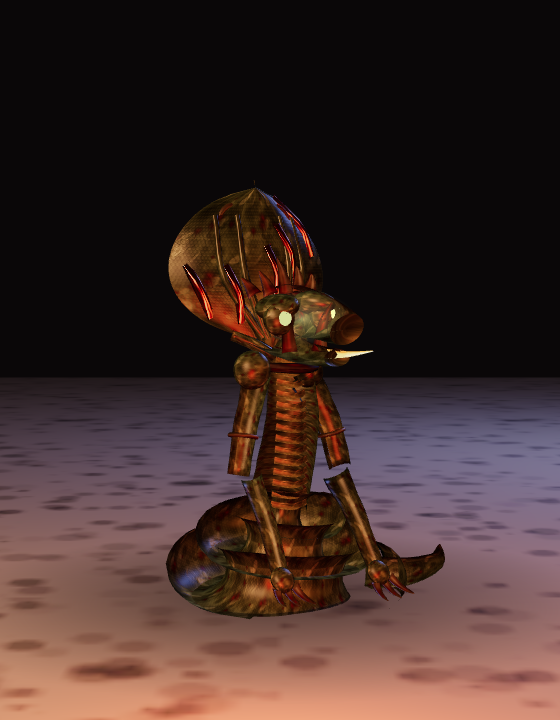
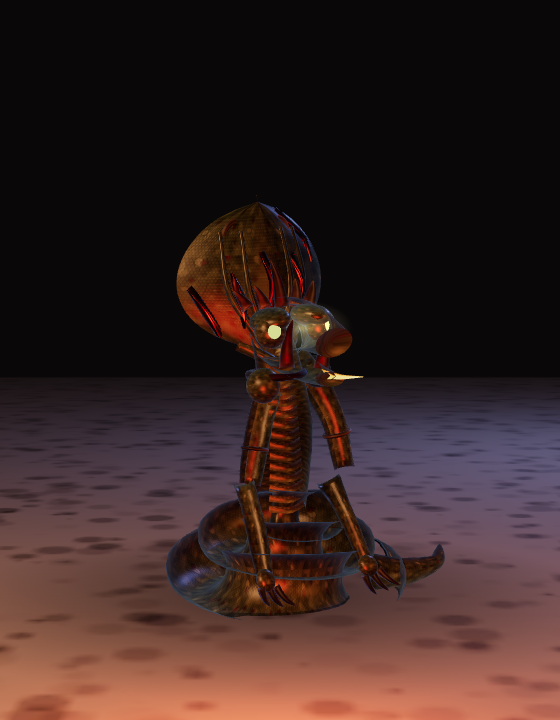
Fix review findings: dead fresnel rim, sculpt races, capture determinism
Self-review of #9 turned up nine issues, one of which killed a headline
feature outright.

- The fresnel rim never rendered. Material.clone() carries neither
  onBeforeCompile nor customProgramCacheKey, and every monster renders from
  per-instance clones, so the patch was dropped on all of them. Verified
  against the vendored three build. The rim setting now lives in userData
  (which clone does preserve) and applyRim() reinstalls the patch after
  cloning. Its strength drops from 0.55 to 0.32 - the old value was tuned
  blind against an effect that was doing nothing.
- The rim was spliced in at <dithering_fragment>, past tonemapping, colour
  space and fog. Once it actually rendered it would have outlined distant
  enemies straight through the fog. Now injected after <opaque_fragment> so it
  is tone-mapped and fogged like everything else.
- Captures were not reproducible: the preview tool took a random variant, tone
  and stature per shot, so an idle/attack pair could show two different
  creatures and re-running capture.mjs churned the images. An explicit variant
  now seeds the per-instance jitter too, and the tool always pins one.
- SkeletonUtils was imported fire-and-forget, so a sculpt instanced before it
  resolved fell back to a shallow clone and every copy shared one skeleton -
  the exact bug the adjacent comment warned about. It is now awaited as part
  of the preload, and instancing without it fails loudly instead.
[…]

Changed region(s): [[0.0, 0.2444, 1.0, 1.0]]

diff --git a/src/models3d.js b/src/models3d.js
@@ -261,6 +261,15 @@ function bakeCavityAO(geo, amp) {
   const n = pos.count;
   const detail = geo.userData.detail;
   const col = new Float32Array(n * 3);
+  // Undisplaced surfaces (metal, teeth, eyes) have no cavities to bake and
+  // should not be darkened; they still need the attribute because the
+  // materials all declare vertexColors.
+  if (amp === 0) {
+    col.fill(1);
+    geo.setAttribute('color', new THREE.BufferAttribute(col, 3));
+    delete geo.userData.detail;
+    return geo;
+  }
   for (let i = 0; i < n; i++) {
     const d = detail ? detail[i] : 0;
     // Pits (negative displacement) darken hard; bumps brighten slightly.
@@ -274,7 +283,6 @@ function bakeCavityAO(geo, amp) {
   }
   geo.setAttribute('color', new THREE.BufferAttribute(col, 3));
   delete geo.userData.detail;
-  if (amp === 0) return geo; // keep hard surfaces crisp
   return geo;
 }
 
@@ -757,7 +765,7 @@ function materialProtos(type) {
     // Wet blood: darker than the hide, and glossier than anything else on it.
     blood: rimLit(new THREE.MeshPhongMaterial({
       map: T.blood, bumpMap: T.blood, bumpScale: 0.7,
-      color: 0xa8302a, specular: 0x8a4038, shininess: 100,
+      color: 0x561512, specular: 0x4a231e, shininess: 86,
       vertexColors: true, transparent: true, opacity: 0.95, side: THREE.DoubleSide,
     })),
     eye: new THREE.MeshBasicMaterial({ color: 0xffffff }),
@@ -773,8 +781,17 @@ function materialProtos(type) {
 // creature's edge would otherwise dissolve into the fog; a cold rim separates
 // it from the background and reads as damp skin catching stray light.
 function rimLit(mat, rim) {
-  const color = new THREE.Color(rim || 0x5a6a86);
-  const strength = 0.55;
+  mat.userData.rim = rim || 0x5a6a86;
+  return applyRim(mat);
+}
+
+// Installs the rim patch on a material. Must be re-run after clone(): three's
+// Material.copy() carries neither onBeforeCompile nor customProgramCacheKey,
+// so a cloned material silently renders without the effect. The setting lives
+// in userData, which clone() does preserve.
+export function applyRim(mat) {
+  const color = new THREE.Color(mat.userData.rim);
+  const strength = 0.32;
   mat.onBeforeCompile = (shader) => {
     shader.uniforms.rimColor = { value: color };
     shader.uniforms.rimStrength = { value: strength };
@@ -782,10 +799,12 @@ function rimLit(mat, rim) {
       .replace('#include <common>', `#include <common>
         uniform vec3 rimColor;
         uniform float rimStrength;`)
-      .replace('#include <dithering_fragment>', `
+      // After <opaque_fragment> so the rim is still tone-mapped and, more
+      // importantly, still fogged - it must fade with distance like everything
+      // else or it draws an outline around monsters you should not yet see.
+      .replace('#include <opaque_fragment>', `#include <opaque_fragment>
         float rimF = 1.0 - abs(dot(normalize(vNormal), normalize(vViewPosition)));
-        gl_FragColor.rgb += rimColor * pow(rimF, 3.0) * rimStrength;
-        #include <dithering_fragment>`);
+        gl_FragColor.rgb += rimColor * pow(rimF, 3.0) * rimStrength;`);
   };
   // Materials with different shader patches must not share a program.
   mat.customProgramCacheKey = () => `rim${color.getHex()}`;
@@ -902,13 +921,17 @@ function buildAsura(seed = 1) {
   }
   // Horns: heavy ridged pair sweeping up and back over the shoulders
   for (const side of [-1, 1]) {
+    // Horns differ per variant and per side: length, sweep, and the odd
+    // stunted or broken one.
+    const hl = 0.72 + r() * 0.62;
+    const hs = 0.8 + r() * 0.5;
     head.put('horn', tube(
       [
         [side * 4, 7.5, 2],
-        [side * 7.5, 14, -2],
-        [side * 9, 20, -10],
-        [side * 7, 22, -19],
-        [side * 4.5, 20, -25],
+        [side * 7.5, 14, -2 * hs],
+        [side * 9, 12 + 8 * hl, -10 * hs],
+        [side * 7, 13 + 9 * hl, -19 * hs],
+        [side * 4.5, 12 + 8 * hl, -25 * hs],
       ],
       { segs: 22, radial: 14, radius: (t) => 3.1 * (1 - t) ** 0.55 + 0.15, capEnd: false, vScale: 3 },
     ));
@@ -1261,20 +1284,23 @@ function buildRakshasa(boss, seed = 1) {
   }
   // Horns: ram-curled for the rakshasa, a wide buffalo sweep for the boss
   for (const side of [-1, 1]) {
+    // Horn spread and curl vary per variant and per side
+    const hw = 0.82 + r() * 0.42;
+    const hc = 0.78 + r() * 0.5;
     const pts = boss
       ? [
         [side * 7, 8, -1],
-        [side * 18, 12, -3],
-        [side * 29, 13, -5],
-        [side * 37, 18, -2],
-        [side * 36, 27, 6],
+        [side * 18 * hw, 12, -3],
+        [side * 29 * hw, 13, -5 * hc],
+        [side * 37 * hw, 18, -2 * hc],
+        [side * 36 * hw, 20 + 9 * hc, 6 * hc],
       ]
       : [
         [side * 8, 7, -1],
-        [side * 16, 12, -4],
-        [side * 20, 10, -12],
-        [side * 15, 3, -16],
-        [side * 10, 0, -11],
+        [side * 16 * hw, 12, -4 * hc],
+        [side * 20 * hw, 10, -12 * hc],
+        [side * 15 * hw, 3, -16 * hc],
+        [side * 10 * hw, 0, -11 * hc],
       ];
     head.put('horn', tube(pts, {
       segs: 22,
@@ -1497,11 +1523,14 @@ const EYE_COLORS = {
  * @returns a handle with { root, height, pose(state), setHurt(t), setFade(a), dispose() }
  */
 export function createMonster(type, boss, height, variant) {
-  const v = variant === undefined ? (Math.random() * VARIANTS) | 0 : variant % VARIANTS;
+  const explicit = variant !== undefined;
+  const v = explicit ? variant % VARIANTS : (Math.random() * VARIANTS) | 0;
   const rig = rigFor(type, boss, v);
   const protos = materialProtos(type);
   const eyeColor = EYE_COLORS[boss ? 'boss' : type];
-  const rnd = rng(v * 977 + ((Math.random() * 1e6) | 0));
+  // An explicit variant means a reproducible monster, so the offline capture
+  // tool shoots the same creature every run.
+  const rnd = rng(explicit ? v * 977 + 13 : v * 977 + ((Math.random() * 1e6) | 0));
 
   // Per-instance materials so one monster can flash or fade alone. Each also
   // gets its own slight shift in tone and gloss, so a pack does not look like
@@ -1511,6 +1540,8 @@ export function createMonster(type, boss, height, variant) {
   const skinLike = [];
   for (const key of Object.keys(protos)) {
     const m = protos[key].clone();
+    // clone() drops the shader patch; put it back or the rim silently vanishes.
+    if (m.userData && m.userData.rim !== undefined) applyRim(m);
     if (key === 'eye') m.color.setHex(eyeColor);
     else if (key === 'ember') m.color.setHex(boss ? 0xff5a10 : type === 'naga' ? 0xc0ff40 : 0xff5a12);
     else {
@@ -1519,6 +1550,15 @@ export function createMonster(type, boss, height, variant) {
     }
     mats[key] = m;
     if (key !== 'eye' && key !== 'ember') skinLike.push(m);
+  }
+
+  // What each material wants when the monster is not fading, so setFade can
+  // put it back instead of forcing everything opaque.
+  const baseTransparent = {};
+  const baseOpacity = {};
+  for (const key of Object.keys(mats)) {
+    baseTransparent[key] = mats[key].transparent;
+    baseOpacity[key] = mats[key].opacity;
   }
 
   const root = new THREE.Group();
@@ -1620,12 +1660,17 @@ export function createMonster(type, boss, height, variant) {
       if (on !== transparent) {
         transparent = on;
         for (const key of Object.keys(mats)) {
-          mats[key].transparent = on;
-          mats[key].depthWrite = !on;
-          mats[key].needsUpdate = true;
+          const m = mats[key];
+          // Restore each material's own setting rather than forcing opaque:
+          // blood is authored transparent and must stay that way.
+          m.transparent = on || baseTransparent[key];
+          m.depthWrite = !m.transparent;
+          m.needsUpdate = true;
         }
       }
-      if (on) for (const key of Object.keys(mats)) mats[key].opacity = alpha;
+      for (const key of Object.keys(mats)) {
+        mats[key].opacity = on ? alpha : baseOpacity[key];
+      }
       glowMat.opacity = alpha;
     },
 

diff --git a/src/monsters.js b/src/monsters.js
@@ -15,10 +15,12 @@ import { createMonster as createProcedural } from './models3d.js';
 import { MONSTER_MODELS, HAS_SCULPTS } from './monsterAssets.js';
 
 const loaded = new Map();   // key -> { scene, clips, cfg }
+// Populated by preloadSculpts before any sculpt can be instanced.
+const skeletonUtils = {};
 let readyCallbacks = [];
 let loadStarted = false;
 
-const keyFor = (type, boss) => (boss && MONSTER_MODELS.boss ? 'boss' : type);
+const keyFor = (type, boss) => (boss && loaded.has('boss') ? 'boss' : type);
 
 /**
  * Kick off loading of any configured sculpts. Safe to call repeatedly, and a
@@ -34,6 +36,14 @@ export async function preloadSculpts() {
     ({ GLTFLoader } = await import('../lib/GLTFLoader.js'));
   } catch (err) {
     console.warn('[vidhi] GLTFLoader unavailable, staying procedural:', err.message);
+    return;
+  }
+  // Must be ready before any sculpt is instanced: a shallow clone would give
+  // every copy one shared skeleton, so they would all animate in lockstep.
+  try {
+    ({ clone: skeletonUtils.clone } = await import('../lib/SkeletonUtils.js'));
+  } catch (err) {
+    console.warn('[vidhi] SkeletonUtils unavailable; sculpts stay procedural:', err.message);
     return;
   }
   const loader = new GLTFLoader();
@@ -107,8 +117,9 @@ function createSculpted(entry, type, boss, height) {
   // Skinned meshes cannot be cloned with Object3D.clone - the copies would
   // share one skeleton and animate in lockstep.
   const { clone } = skeletonUtils;
+  if (!clone) throw new Error('SkeletonUtils not loaded');
   const root = new THREE.Group();
-  const model = clone ? clone(entry.scene) : entry.scene.clone(true);
+  const model = clone(entry.scene);
   const cfg = entry.cfg;
 
   // Fit to the gameplay height and stand it on the floor, so a sculpt authored
@@ -121,23 +132,14 @@ function createSculpted(entry, type, boss, height) {
   model.position.y = -box.min.y * fit + (cfg.offsetY || 0);
   model.rotation.y = cfg.yaw || 0;
 
-  const materials = [];
+  // One pass: shadow flags, culling, and per-instance material clones so this
+  // monster can flash red or fade out without dragging its species with it.
+  const clonedFor = new Map();
   model.traverse((o) => {
     if (!o.isMesh && !o.isSkinnedMesh) return;
     o.castShadow = true;
     o.receiveShadow = true;
     o.frustumCulled = false; // skinned bounds go stale as the pose changes
-    for (const m of Array.isArray(o.material) ? o.material : [o.material]) {
-      if (m && !materials.includes(m)) {
-        // Clone so this instance can flash and fade on its own.
-        materials.push(m);
-      }
-    }
-  });
-  // Re-assign per-instance material clones
-  const clonedFor = new Map();
-  model.traverse((o) => {
-    if (!o.isMesh && !o.isSkinnedMesh) return;
     const swap = (m) => {
       if (!m) return m;
       if (!clonedFor.has(m)) clonedFor.set(m, m.clone());
@@ -242,11 +244,3 @@ function createSculpted(entry, type, boss, height) {
   };
 }
 
-// SkeletonUtils is only needed once a sculpt is actually in play, so it is
-// imported lazily alongside the loader.
-const skeletonUtils = {};
-if (HAS_SCULPTS) {
-  import('../lib/SkeletonUtils.js')
-    .then((m) => { skeletonUtils.clone = m.clone; })
-    .catch(() => { /* falls back to a shallow clone, fine for static meshes */ });
-}

diff --git a/tools/preview.html b/tools/preview.html
@@ -22,21 +22,21 @@ import { createMonster } from '../src/models3d.js';
 const canvas = document.getElementById('c');
 const renderer = new THREE.WebGLRenderer({ canvas, antialias: true, alpha: false });
 renderer.toneMapping = THREE.ACESFilmicToneMapping;
-renderer.toneMappingExposure = 1.55;
+renderer.toneMappingExposure = 1.4;
 
 const scene = new THREE.Scene();
 const camera = new THREE.PerspectiveCamera(30, 1, 0.05, 60);
 
-scene.add(new THREE.AmbientLight(0x8496c4, 1.05));
-scene.add(new THREE.HemisphereLight(0x8a6a44, 0x1c1410, 1.9));
+scene.add(new THREE.AmbientLight(0x8496c4, 0.8));
+scene.add(new THREE.HemisphereLight(0x8a6a44, 0x1c1410, 1.45));
 
-const key = new THREE.PointLight(0xffc490, 62, 18, 2);
+const key = new THREE.PointLight(0xffc490, 46, 18, 2);
 key.position.set(-1.7, 1.9, 2.4);
 scene.add(key);
-const fill = new THREE.PointLight(0xff9a45, 24, 16, 2);
+const fill = new THREE.PointLight(0xff9a45, 17, 16, 2);
 fill.position.set(2.4, 0.9, 1.8);
 scene.add(fill);
-const rim = new THREE.PointLight(0x86a0ff, 42, 14, 2);
+const rim = new THREE.PointLight(0x86a0ff, 30, 14, 2);
 rim.position.set(1.7, 2.1, -2.6);
 scene.add(rim);
 const under = new THREE.PointLight(0xff5522, 11, 7, 2);
@@ -96,7 +96,10 @@ window.showMonster = (type, boss, height, opts = {}) => {
     scene.remove(current.root);
     current.dispose();
   }
-  current = createMonster(type, boss, height);
+  // Always pin the variant: in game a monster picks one at random along with
+  // its own tone and stature, which would make every capture run produce a
+  // different creature and the idle/attack pair show two different bodies.
+  current = createMonster(type, boss, height, opts.variant !== undefined ? opts.variant : 0);
   scene.add(current.root);
   shadow.scale.set(height * 1.5, 1, height * 1.5);
   scene.background = new THREE.Color(opts.bg !== undefined ? opts.bg : 0x0a0708);

diff --git a/src/renderer3d.js b/src/renderer3d.js
@@ -9,7 +9,7 @@ import {
 } from './constants.js';
 import { createTextures } from './textures.js';
 import { createSpriteFrames } from './sprites3d.js';
-import { createMonster, preloadSculpts, onSculptsReady } from './monsters.js';
+import { createMonster, preloadSculpts, onSculptsReady, hasSculpt } from './monsters.js';
 
 const TORCH_LIGHT_POOL = 6;
 const MAX_PARTICLES = 512;
@@ -439,10 +439,13 @@ export class Renderer3D {
         }
         continue;
       }
-      if (mesh && this._rebuildEnemies && ENEMY_TYPES.has(sprite.type)) {
-        // A sculpt finished loading: throw away the procedural stand-in.
+      if (mesh && this._rebuildEnemies && ENEMY_TYPES.has(sprite.type)
+          && !mesh.userData.model.sculpted && hasSculpt(sprite.type, sprite.boss)) {
+        // A sculpt landed for this species: retire the procedural stand-in.
+        // Anything without one keeps its mesh, so its facing and gait do not
+        // snap back to defaults for no reason.
         this.spriteGroup.remove(mesh);
-        if (mesh.userData.model) mesh.userData.model.dispose();
+        mesh.userData.model.dispose();
         this._spriteMeshes.delete(sprite);
         mesh = null;
       }

diff --git a/README.md b/README.md
@@ -120,7 +120,8 @@ authored with:
   wall behind it. The renderer watches its own frame time and drops shadows if
   the machine cannot hold 30fps with them on.
 
-Level 3 — fifteen enemies plus the boss — renders in 273 draw calls.
+Level 3 — fifteen enemies plus the boss — renders in roughly 275 draw calls
+(it moves by one or two depending on which variants spawn).
 
 ### Asura — *the swarm*
 
